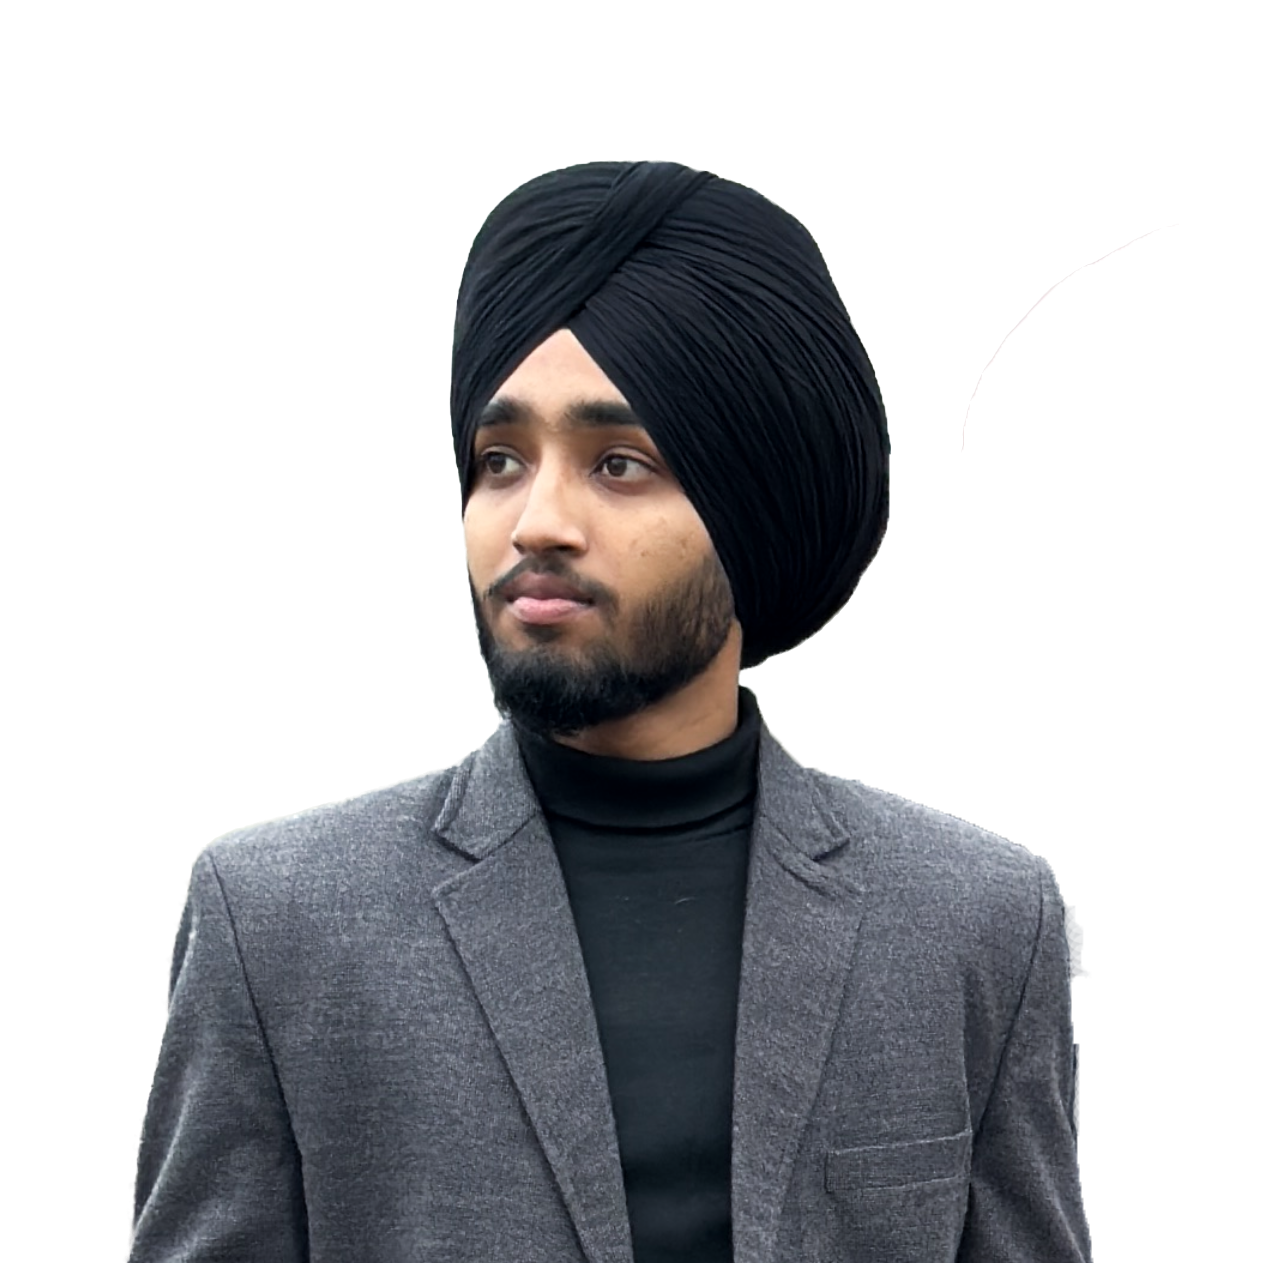
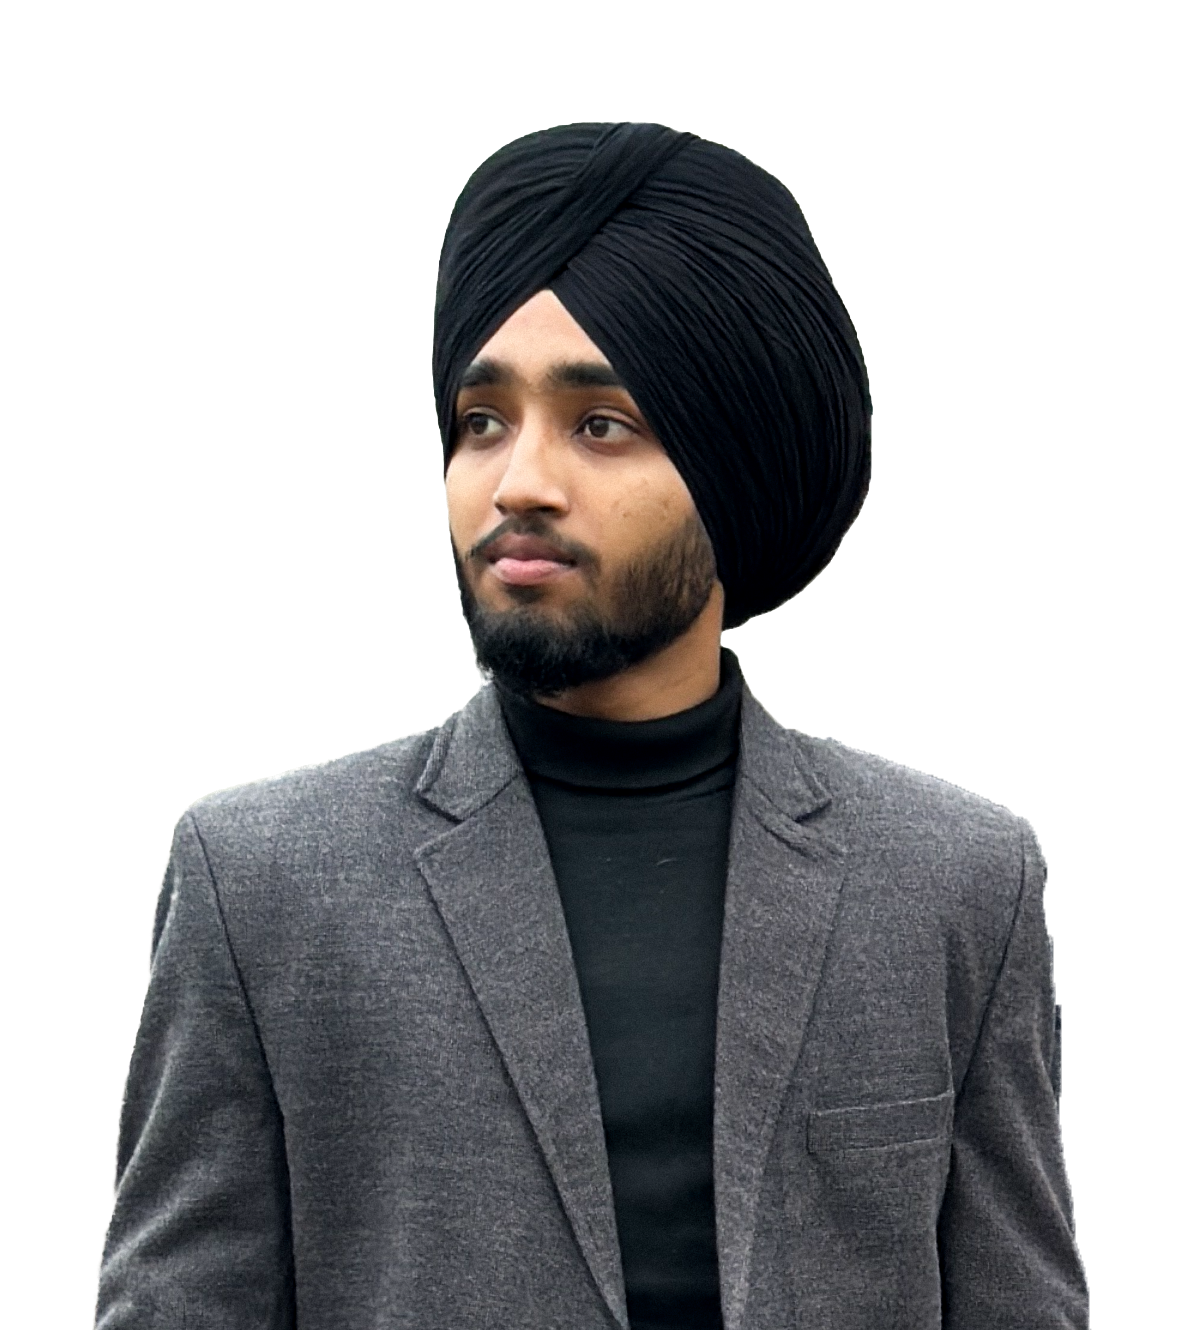
push images and add scroll on bio

diff --git a/src/pages/Team.tsx b/src/pages/Team.tsx
@@ -4,7 +4,7 @@ const team = [
     {
         name: "MOHIT CHAUDHARY",
         role: "Founder",
-        bio: `At the helm of Humgence is Mohit Chaudhary, a seasoned strategist whose 18-year career was forged within global consulting giants like Accenture, KPMG, and PwC. Mohit brings a rare depth of corporate precision to digital marketing, bridging the gap between complex business ecosystems and modern agility. Rather than viewing marketing in isolation, he applies a consultant’s foresight to ensure every campaign drives sustainable growth for leaders like Hero Honda and 3M. A national-level athlete, Mohit infuses business with the discipline of competitive sports. Under his leadership, Humgence delivers high-performance, strategic execution that stands the test of time.`,
+        bio: "At the helm of Humgence is Mohit Chaudhary, a seasoned strategist whose 18-year career has been defined by a relentless pursuit of precision and long-term value. Shaped by the rigorous environments of global consulting giants—including Accenture, KPMG, PwC, and SAP Labs—Mohit brings a rare depth of corporate strategy to the fast-paced world of digital marketing. <br/><br/> Mohit’s expertise lies in his ability to bridge the gap between complex business ecosystems and modern digital agility. He does not view marketing in isolation; rather, he approaches it through the lens of a consultant, ensuring that every campaign is backed by foresight and structured for sustainable growth. His portfolio includes high-impact projects for industry leaders such as Hero Honda, Avantha Power, 3M, the Trident Group, and various Public Sector Undertakings (PSUs). Beyond the boardroom, Mohit channels the discipline and competitive spirit of a national-level athlete. A distinguished football and golf player, he applies the same focus, resilience, and strategic calculation to business that he does to sports. Under his leadership, Humgence delivers not just innovation, but performance-focused execution that stands the test of time.",
         grad: "from-pink-500 to-[#56c0db]",
         image: "/team/mohit_humgence.png"
     },
@@ -23,11 +23,11 @@ const team = [
         image: "/team/sukhcharan_humgence.png"
     },
     {
-        name: "Amandeep Singh",
-        role: "Technical Head",
-        bio: "As our Technical Lead and Full Stack Developer, Amandeep Singh is the driving force behind the robust digital architectures that power our agency. He doesn’t just oversee development; he meticulously designs every layer of our systems, ensuring a seamless transition from complex backend logic to high-performance user interfaces. Amandeep bridges the gap between ambitious brand visions and technical reality, leading our engineering team with a blend of strategic foresight and hands-on expertise. His commitment to excellence ensures every project is scalable, secure, and world-class. Under his leadership, we continue to push the boundaries of what’s possible in digital innovation.",
-        grad: "from-[#56c0db] to-blue-600",
-        image: "/team/amandeep_humgence.png"
+        name: "Gursharan Singh",
+        role: "Video Editor & Graphic Designer",
+        bio: "Gursharan is a highly skilled Video Editor and Graphic Designer with over five years of professional experience crafting compelling visual stories. With a sharp creative eye and strong technical expertise, he specializes in delivering impactful designs and seamless video edits that elevate brand presence. Proficient in Adobe Photoshop and Adobe Premiere Pro, along with the full Adobe Creative Suite, Gursharan combines creativity with precision to produce engaging digital content. From promotional videos and social media creatives to branding assets and cinematic edits, his work reflects attention to detail, storytelling strength, and a deep understanding of visual communication that drives results.",
+        grad: "from-orange-400 to-[#56c0db]",
+        image: "/team/gursharan_humgence.png"
     },
     {
         name: "Harpreet Singh",
@@ -35,6 +35,13 @@ const team = [
         bio: "Harpreet Singh is a results-driven Meta and Google Ads Specialist at Humgence, dedicated to delivering high-performance digital advertising campaigns. With strong expertise in paid media strategy, audience targeting, and conversion optimization, he helps brands maximize ROI and scale sustainably. Harpreet specializes in creating data-backed campaigns that generate quality leads, increase sales, and strengthen online presence. His analytical mindset, combined with creative ad execution, ensures every campaign is optimized for measurable growth. Passionate about performance marketing and continuous learning, Harpreet focuses on turning insights into impactful strategies that drive real business results in today’s competitive digital landscape.",
         grad: "from-indigo-500 to-[#56c0db]",
         image: "/team/harpreet_humgence.png"
+    },
+    {
+        name: "Amandeep Singh",
+        role: "Technical Head",
+        bio: "As our Technical Lead and Full Stack Developer, Amandeep Singh is the driving force behind the robust digital architectures that power our agency. He doesn’t just oversee development; he meticulously designs every layer of our systems, ensuring a seamless transition from complex backend logic to high-performance user interfaces. Amandeep bridges the gap between ambitious brand visions and technical reality, leading our engineering team with a blend of strategic foresight and hands-on expertise. His commitment to excellence ensures every project is scalable, secure, and world-class. Under his leadership, we continue to push the boundaries of what’s possible in digital innovation.",
+        grad: "from-[#56c0db] to-blue-600",
+        image: "/team/amandeep_humgence.png"
     },
     {
         name: "Akshita",
@@ -65,13 +72,6 @@ const team = [
         image: "/team/gurinder_humgence.png"
     },
     {
-        name: "Gursharan Singh",
-        role: "Video Editor & Graphic Designer",
-        bio: "Gursharan is a highly skilled Video Editor and Graphic Designer with over five years of professional experience crafting compelling visual stories. With a sharp creative eye and strong technical expertise, he specializes in delivering impactful designs and seamless video edits that elevate brand presence. Proficient in Adobe Photoshop and Adobe Premiere Pro, along with the full Adobe Creative Suite, Gursharan combines creativity with precision to produce engaging digital content. From promotional videos and social media creatives to branding assets and cinematic edits, his work reflects attention to detail, storytelling strength, and a deep understanding of visual communication that drives results.",
-        grad: "from-orange-400 to-[#56c0db]",
-        image: "/team/gursharan_humgence.png"
-    },
-    {
         name: "Armaan Singh",
         role: "Video Editor",
         bio: "Armaan is a skilled Video Editor known for his sharp eye for detail and strong storytelling instincts. With hands-on expertise in industry-leading software including Adobe Premiere Pro and After Effects, he transforms raw footage into seamless, engaging visual narratives. His editing style blends precision with creativity, ensuring every frame contributes to the overall impact of the story. Whether it’s promotional content, social media campaigns, or cinematic projects, Armaan delivers polished results that capture attention and hold it. Passionate about evolving trends and techniques, he consistently brings fresh energy and technical excellence to every project he undertakes.",
@@ -95,7 +95,7 @@ const team = [
     {
         name: "Ishvir Singh",
         role: "Social Media Manager, Meta Ads",
-        bio: "Ensuring your brand never blends into the ordinary.",
+        bio: "Ishvir Khangura is a results-driven digital marketing professional with over 1.5 years of practical experience in performance and social media marketing. He began his career as an Email Marketer, specializing in lead generation through targeted outreach and automation strategies. Over time, he expanded his expertise into Social Media Management, where he handled content planning, audience engagement, and brand growth. He has also worked as a Meta Ads Executive, managing and optimizing paid campaigns focused on generating quality leads and improving ROI. Ishvir brings a strong blend of creativity, analytical thinking, and execution skills to every project he handles.",
         grad: "from-[#56c0db] to-violet-600",
         image: "/team/ishvir_humgence.png"
     },
@@ -226,13 +226,49 @@ export default function PerfectTeamGrid() {
                         {/* 3. HOVER CONTENT PANEL */}
                         <div className="absolute inset-0 z-20 flex flex-col justify-end">
                             <motion.div
-                                className="p-8 bg-black/40 backdrop-blur-xl border-t border-white/10 translate-y-[101%] group-hover:translate-y-0 transition-transform duration-[0.6s] ease-[0.16, 1, 0.3, 1]"
+                                className="absolute inset-0 z-20 
+               flex flex-col
+               p-6 sm:p-10 
+               bg-black/85 backdrop-blur-2xl 
+               translate-y-full group-hover:translate-y-0 
+               transition-transform duration-[0.7s] ease-[0.16,1,0.3,1]"
                             >
-                                <div className="space-y-3">
-                                    <div className="w-12 h-[2px] bg-[#56c0db]" />
-                                    <p className="text-slate-300 text-sm font-light leading-relaxed">
-                                        {member.bio}
-                                    </p>
+                                {/* Inner Content Wrapper */}
+                                <div className="relative h-full flex flex-col pt-10">
+
+                                    {/* Header inside the slide-up */}
+                                    <div className="mb-4">
+                                        <motion.div
+                                            initial={{ width: 0 }}
+                                            whileInView={{ width: "3rem" }}
+                                            className="h-[2px] bg-[#56c0db] mb-2"
+                                        />
+                                        <p className="text-[#56c0db] text-[10px] font-black uppercase tracking-[0.2em]">
+                                            About Member
+                                        </p>
+                                    </div>
+
+                                    {/* Bio Text Container with Custom Scrollbar */}
+                                    <div className="flex-1 overflow-y-auto pr-2 
+                        /* Custom Scrollbar Styling */
+                        scrollbar-thin 
+                        scrollbar-thumb-[#56c0db]/40 
+                        scrollbar-track-transparent 
+                        hover:scrollbar-thumb-[#56c0db]
+                        /* For Chrome/Safari/Edge */
+                        [&::-webkit-scrollbar]:w-1
+                        [&::-webkit-scrollbar-track]:bg-transparent
+                        [&::-webkit-scrollbar-thumb]:bg-[#56c0db]/30
+                        [&::-webkit-scrollbar-thumb]:rounded-full
+                        hover:[&::-webkit-scrollbar-thumb]:bg-[#56c0db]
+                        /* Fade Mask */
+                        [mask-image:linear-gradient(to_bottom,transparent,black_10%,black_90%,transparent)]">
+
+                                        <p className="text-slate-200 text-sm sm:text-[15px] font-light leading-relaxed tracking-wide py-4">
+                                            {member.bio}
+                                        </p>
+                                    </div>
+
                                 </div>
                             </motion.div>
                         </div>
